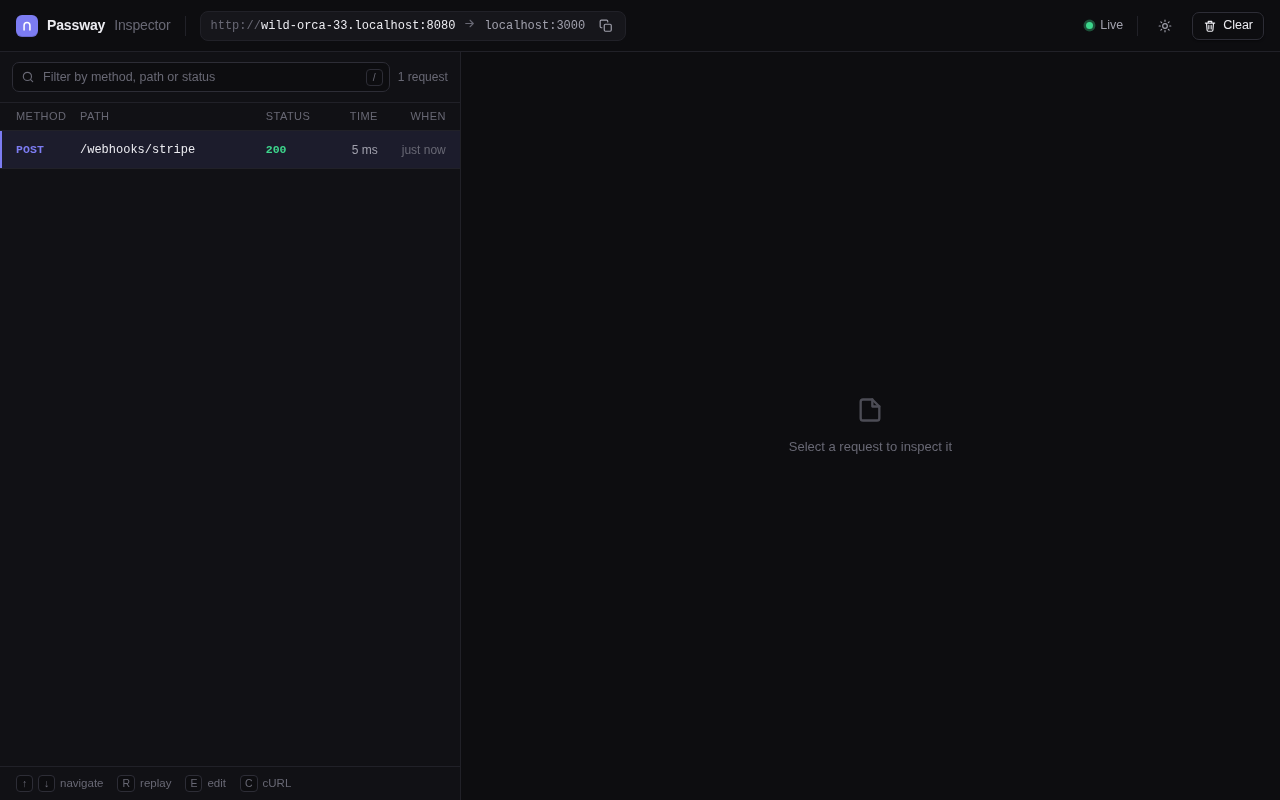
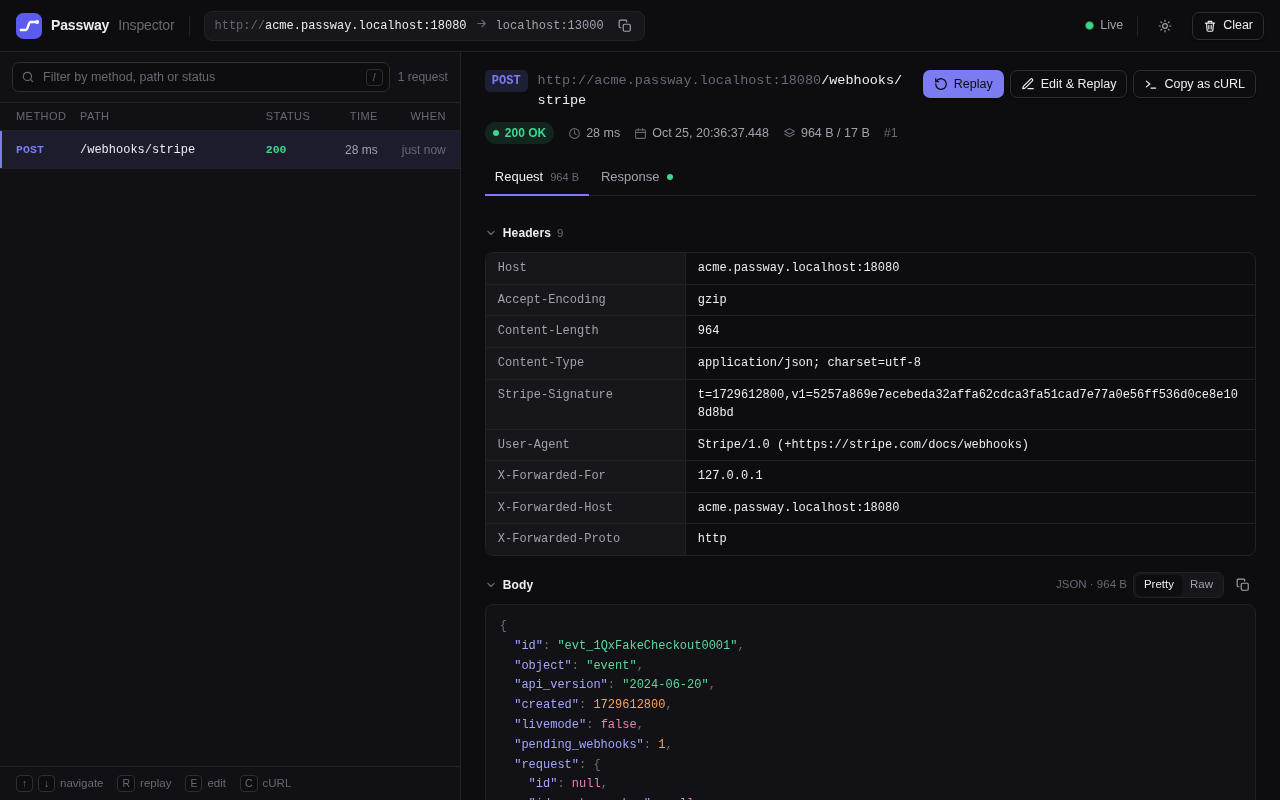
docs: README rewrite with the demo GIF; retake the inspector screenshot
The GIF (960px, 157 KB) and the new inspector.png come from a headless
run of the current inspector: a Stripe-style webhook arrives through a
real tunnel, its detail view shows the pretty-printed JSON, and it is
replayed. The site's copy of inspector.png is the same file.

diff --git a/README.md b/README.md
@@ -1,195 +1,167 @@
+<!-- OWNER: replace <domain> with the Passway Cloud domain once it exists
+     (also in docs/launch/). See docs/launch/checklist.md. -->
+
 # Passway
 
 **An open-source, self-hostable ngrok alternative built for webhook debugging.**
-One command gives a local app a public URL.
 
-> **Status: early development.** Milestone 1 (the core tunnel) and milestone 2
-> (request inspector, replay and basic abuse protection) work: you can run your
-> own relay server, expose a local HTTP app through it and inspect the traffic.
-> Expect rough edges and breaking changes.
+`passway http 3000` gives your local app a public HTTPS URL. A local inspector
+shows every request that comes through it, and you can replay any of them
+with one click.
 
-## What works today
+![A Stripe webhook arriving in the Passway inspector, opened to show its headers and JSON body, then replayed](docs/img/demo.gif)
 
-- `passway http <port>` exposes a local HTTP app at `http://<name>.<your-domain>`
-- Streaming request and response bodies
-- Automatic reconnect, keeping the same public URL
-- Token authentication (`--tokens`) and optional TLS on the relay server
-- A friendly 502 page when the tunnel is offline
-- A local request inspector with replay (see below)
-- Per-tunnel rate limiting, a connection cap and an optional browser warning page
+## Quickstart (Passway Cloud)
 
-## Quickstart (local)
-
-Requires the Go version listed in `go.mod`.
+Install the CLI:
 
 ```sh
-git clone https://github.com/Mohammed19N/devtunnel
-cd devtunnel
+curl -fsSL https://<domain>/install.sh | sh
+# or
+brew install mohammed19n/tap/passway
 ```
 
-In one terminal, start the relay server:
+Prebuilt binaries for Linux, macOS and Windows are on the
+[releases page](https://github.com/mohammed19n/passway/releases). The install
+script verifies the archive's checksum before installing anything.
 
-```sh
-go run ./cmd/passway-server --domain localhost
+Then:
+
+1. Sign in at `https://<domain>` with GitHub.
+2. Create a CLI token under **CLI tokens**, then run `passway login <token>`.
+3. Run `passway http 3000`.
+
+```
+Forwarding   https://<your-name>.<domain> -> http://localhost:3000
+Plan         Free - 60 req/min - 1 GB/month
+Inspector    http://127.0.0.1:4040
 ```
 
-To try the cloud flow locally (accounts, dashboard, plans) instead:
+Point Stripe, GitHub, Shopify or any webhook sender at that URL, and open the
+inspector.
 
-```sh
-go run ./cmd/passway-server --mode cloud --domain localhost --db ./passway.db --dev-login
-```
+## Features
 
-then open http://localhost:8080/auth/dev, enter a name in the form to sign in, create a token
-under CLI tokens and run `passway login <token>`.
+- **A complete tunnel.** It streams request and response bodies, handles
+  WebSockets and large uploads, and reconnects automatically while keeping the
+  same URL. The client makes one outbound connection over HTTPS on port 443,
+  so it works through most corporate firewalls.
+- **The inspector** at http://127.0.0.1:4040 lists every request live, with
+  headers, bodies (JSON pretty-printed) and timing for both the request and
+  the response.
+  - **Replay** resends a request unchanged, including headers such as
+    `Stripe-Signature`.
+  - **Edit & Replay** lets you change the method, path, headers or body
+    first.
+  - **Copy as cURL** builds a command for the request.
+- **Stable names.** Every cloud account gets a default subdomain, and you
+  can reserve more and pick one with `--name`.
+- **Custom domains** (Pro). Add `hooks.example.com` in the dashboard, create
+  a CNAME and a TXT record, verify it, then run
+  `passway http 3000 --domain hooks.example.com`. Certificates are issued
+  automatically.
+- **Abuse controls** keep the shared domain usable:
+  - Sign-in with GitHub (a minimum account age applies to sign-ups).
+  - A one-time warning page for browser visitors on Free tunnels. Webhooks
+    and API calls are never interrupted.
+  - A blocklist of brand and phishing words in subdomains.
+  - Per-tunnel rate limits and an abuse report form.
+- **Self-hostable.** It is one static binary or one Docker image. Self-hosted
+  relays have no accounts, limits or branding.
 
-In another, start something to expose on port 3000, for example:
+### Inspector details
 
-```sh
-python3 -m http.server 3000
-```
-
-In a third, open the tunnel:
-
-```sh
-go run ./cmd/passway http 3000
-```
-
-The CLI prints a public URL such as `http://brave-marmot-93.localhost:8080`.
-Request it:
-
-```sh
-curl http://<name>.localhost:8080/
-```
-
-`curl` resolves `*.localhost` to loopback by itself. Other clients may not, so
-send the tunnel's hostname as a `Host` header instead:
-
-```sh
-curl -H 'Host: <name>.localhost:8080' http://127.0.0.1:8080/
-```
-
-## Inspect & replay webhooks
-
-`passway http <port>` also starts a request inspector at
-**http://127.0.0.1:4040** (if that port is taken it tries 4041 to 4049; the
-CLI prints the address it chose). An explicit `--inspect-addr` is used as given, with no fallback. Every request that goes through the tunnel
-shows up there live, with headers and bodies for both the request and the
-response.
-
-![The Passway inspector](docs/img/inspector.png)
-
-<!-- TODO(week 4): replace the screenshot with a short GIF of capture and replay. -->
-
-- **Replay** sends a captured request to your local app again, unchanged
-  (including headers such as `Stripe-Signature`). The replay appears as a new
-  entry in the list.
-- **Edit & Replay** lets you change the method, path, headers or body first.
-  Edited bodies are sent as UTF-8 text; an unedited body is resent byte for
-  byte.
-- **Copy as cURL** builds a `curl` command for the captured request against
-  your public tunnel URL.
-
-The inspector keeps the last 500 requests in memory and stores at most 1 MB of
-each body (larger bodies are marked truncated, but are always forwarded in
-full). A request whose body the inspector did not see to the end, for example
-because your app answered before reading it, is also marked truncated. A
-truncated body has to be edited before it can be replayed, and WebSocket
-connections cannot be replayed. The inspector listens on loopback only.
+- The inspector keeps the last 500 requests in memory and stores up to 1 MB of
+  each body. Larger bodies are marked truncated but always forwarded in full.
+- A truncated body must be edited before it can be replayed, and WebSocket
+  connections can't be replayed.
+- It listens on loopback only. If port 4040 is taken it tries 4041 to 4049.
 
 | Flag | Default | Meaning |
 |---|---|---|
 | `--inspect` | `true` | Run the inspector. Use `--inspect=false` to turn it off. |
-| `--inspect-addr` | `127.0.0.1:4040` | Inspector listen address. Must be a loopback address. |
+| `--inspect-addr` | `127.0.0.1:4040` | Inspector listen address (loopback only). It is used as given, with no fallback. |
 
-## Passway Cloud
+## Plans
 
-Passway Cloud is the hosted version: sign in with GitHub, get a token, and
-every account gets a stable default subdomain.
-
-1. Sign in at the dashboard with GitHub.
-2. Create a CLI token under **CLI tokens**. It is shown once.
-3. `passway login <token>`
-4. `passway http 3000 --server https://<cloud-domain>` prints your public URL.
-   Reserved subdomains from the dashboard work with `--name <subdomain>`.
+The cloud has a Free plan and a paid Pro plan.
 
 | | Free | Pro |
 |---|---|---|
 | Concurrent tunnels | 1 | 5 |
 | Reserved subdomains | 1 | 5 |
-| Bandwidth per month | 1 GiB | 50 GiB |
+| Custom domains | none | 2 |
+| Bandwidth per month | 1 GB | 50 GB |
 | Requests per minute per tunnel | 60 | 600 |
-| Browser warning page | yes, names the owner | no |
+| Browser warning page | yes | no |
 
-These numbers are placeholders until the final plans are set (Pro billing
-arrives in a later milestone; for now an operator sets plans with
-`passway-server admin --db PATH set-plan <login> pro`). A suspended account's tunnels are closed and
-its tunnel hosts show a 403 page.
+The current price is on the [pricing page](https://<domain>/pricing). Billing
+runs through Stripe, and you manage or cancel your subscription from the
+dashboard.
 
-### Running Passway Cloud
+## Self-hosting
 
-Like any relay it needs wildcard DNS and a wildcard TLS certificate for the
-base domain; see [docs/self-hosting.md](docs/self-hosting.md).
+Run your own relay on a domain you control: wildcard DNS
+(`*.tunnels.example.com` and `tunnels.example.com`) pointing at the machine.
 
-`passway-server --mode cloud` (or `PASSWAY_MODE=cloud`) runs the cloud: accounts, a dashboard on the
-base domain and plan limits, all backed by SQLite.
+**Docker:**
 
 ```sh
-export PASSWAY_MODE=cloud
-export PASSWAY_GITHUB_CLIENT_SECRET=...
-passway-server --domain passway.example --db /var/lib/passway/p.db \
-  --github-client-id <id> --tls-addr :443 --tls-cert cert.pem --tls-key key.pem
+docker run -d --name passway --restart unless-stopped \
+  -p 80:8080 -p 443:8443 -v passway:/data \
+  -e PASSWAY_CLOUDFLARE_API_TOKEN=... \
+  ghcr.io/mohammed19n/passway-server \
+  --domain tunnels.example.com --addr :8080 --tls-addr :8443 --public-port 443 \
+  --tls-mode acme --acme-email you@example.com --db /data/passway.db
+
+docker exec passway /passway-server admin --db /data/passway.db token create laptop
 ```
 
-For local development, `--dev-login` adds a passwordless sign-in form at `/auth/dev`. It only works on `localhost` domains:
+**The binary** (from the [releases page](https://github.com/mohammed19n/passway/releases)):
 
 ```sh
-passway-server --mode cloud --domain localhost --addr :8080 --db ./p.db --dev-login
+passway-server --domain tunnels.example.com --addr :80 --tls-addr :443 \
+  --tls-cert fullchain.pem --tls-key privkey.pem --tokens secret1,secret2
 ```
 
-Owner to-dos before a public launch:
+- Clients connect with `passway login <token>` and
+  `passway http 3000 --server https://tunnels.example.com`.
+- Self-hosted is the default mode, so there is no mode flag to set.
+- With `--tls-mode acme` and a Cloudflare API token, the server gets and
+  renews its own wildcard certificate.
 
-- Create a GitHub OAuth app whose callback URL is
-  `<base-url>/auth/github/callback`, and pass its client ID with
-  `--github-client-id` and its secret in `PASSWAY_GITHUB_CLIENT_SECRET`.
-- Put the base domain on the [Public Suffix List](https://publicsuffix.org/).
-  Tunnels are subdomains of the dashboard's domain, so without this browsers
-  share cookies between them.
+[docs/self-hosting.md](docs/self-hosting.md) covers every flag, DNS and TLS,
+systemd, running behind an existing nginx, and the admin commands.
+[docs/deploy.md](docs/deploy.md) is the runbook for the hosted cloud.
 
-| Flag (cloud) | Default | Meaning |
-|---|---|---|
-| `--db` | (required) | SQLite database path. |
-| `--github-client-id`, `--github-client-secret` | (empty) | GitHub OAuth app. The secret may come from `$PASSWAY_GITHUB_CLIENT_SECRET`. |
-| `--base-url` | `<scheme>://<domain>[:port]` | Public dashboard URL. Its host must be `--domain`. |
-| `--min-github-age` | `48h` | Minimum GitHub account age to sign up (`0` disables). |
-| `--free-signup-cap` | `1000` | Free accounts allowed; later signups are waitlisted. A waitlisted user is admitted at their next sign-in once there is room, or by an operator with `passway-server admin --db PATH admit <login>`. |
-| `--free-bandwidth-cap` | `500 GiB` | Monthly bandwidth across all Free accounts, in bytes. |
-| `--dev-login` | `false` | Passwordless dev sign-in (localhost only). |
-| `--legal-operator` | (empty) | Who runs the service, named on `/terms`, `/privacy` and `/aup` (empty renders "the operator of this service"). |
-| `--legal-jurisdiction` | (empty) | Whose laws govern the terms of service, e.g. `England and Wales`. |
-| `--abuse-email` | `abuse@<base host>` | Abuse contact shown on the site. Reports from `/abuse` are stored in the database and logged at WARN. |
+## Development
 
-## Running your own relay
-
-Self-hosted is the default mode (`--mode self-hosted`): a relay with no accounts
-or dashboard, random tunnel names and shared `--tokens`.
+Requires the Go version in `go.mod`.
 
 ```sh
-passway-server --domain tunnels.example.com \
-  --tls-addr :443 --tls-cert cert.pem --tls-key key.pem \
-  --addr :80 --tokens secret1,secret2
+git clone https://github.com/mohammed19n/passway
+cd passway
+go run ./cmd/passway-server --domain localhost      # a relay on :8080
+go run ./cmd/passway http 3000                       # in another terminal
+curl http://<name>.localhost:8080/                   # the name the CLI printed
 ```
 
-Clients authenticate with `passway login <token>` or `PASSWAY_TOKEN`, and pick
-the server with `--server`. The full flag reference, DNS and TLS notes and the
-admin commands are in [docs/self-hosting.md](docs/self-hosting.md).
+To try the cloud flow (accounts, dashboard, plans) locally, run:
 
-## Roadmap
+```sh
+go run ./cmd/passway-server --mode cloud --domain localhost --db ./passway.db --dev-login
+```
 
-Accounts, plans and the dashboard work (milestone 3). Planned, not built yet:
-paid plans with billing, custom domains and an install script.
+Then open http://localhost:8080/auth/dev.
+
+Run the tests with `go test -race ./...`.
 
 ## License
 
-The CLI and the rest of the repository are licensed under the [MIT License](LICENSE).
-The server (`cmd/passway-server`) is licensed under the
-[AGPL-3.0](cmd/passway-server/LICENSE).
+- The CLI, the client and the rest of the repository are under the
+  [MIT License](LICENSE).
+- The server (`cmd/passway-server` and `internal/server`) is under the
+  [AGPL-3.0](cmd/passway-server/LICENSE).
+
+You can run, modify and self-host all of it. If you offer a modified server to
+others as a service, you share your changes.
